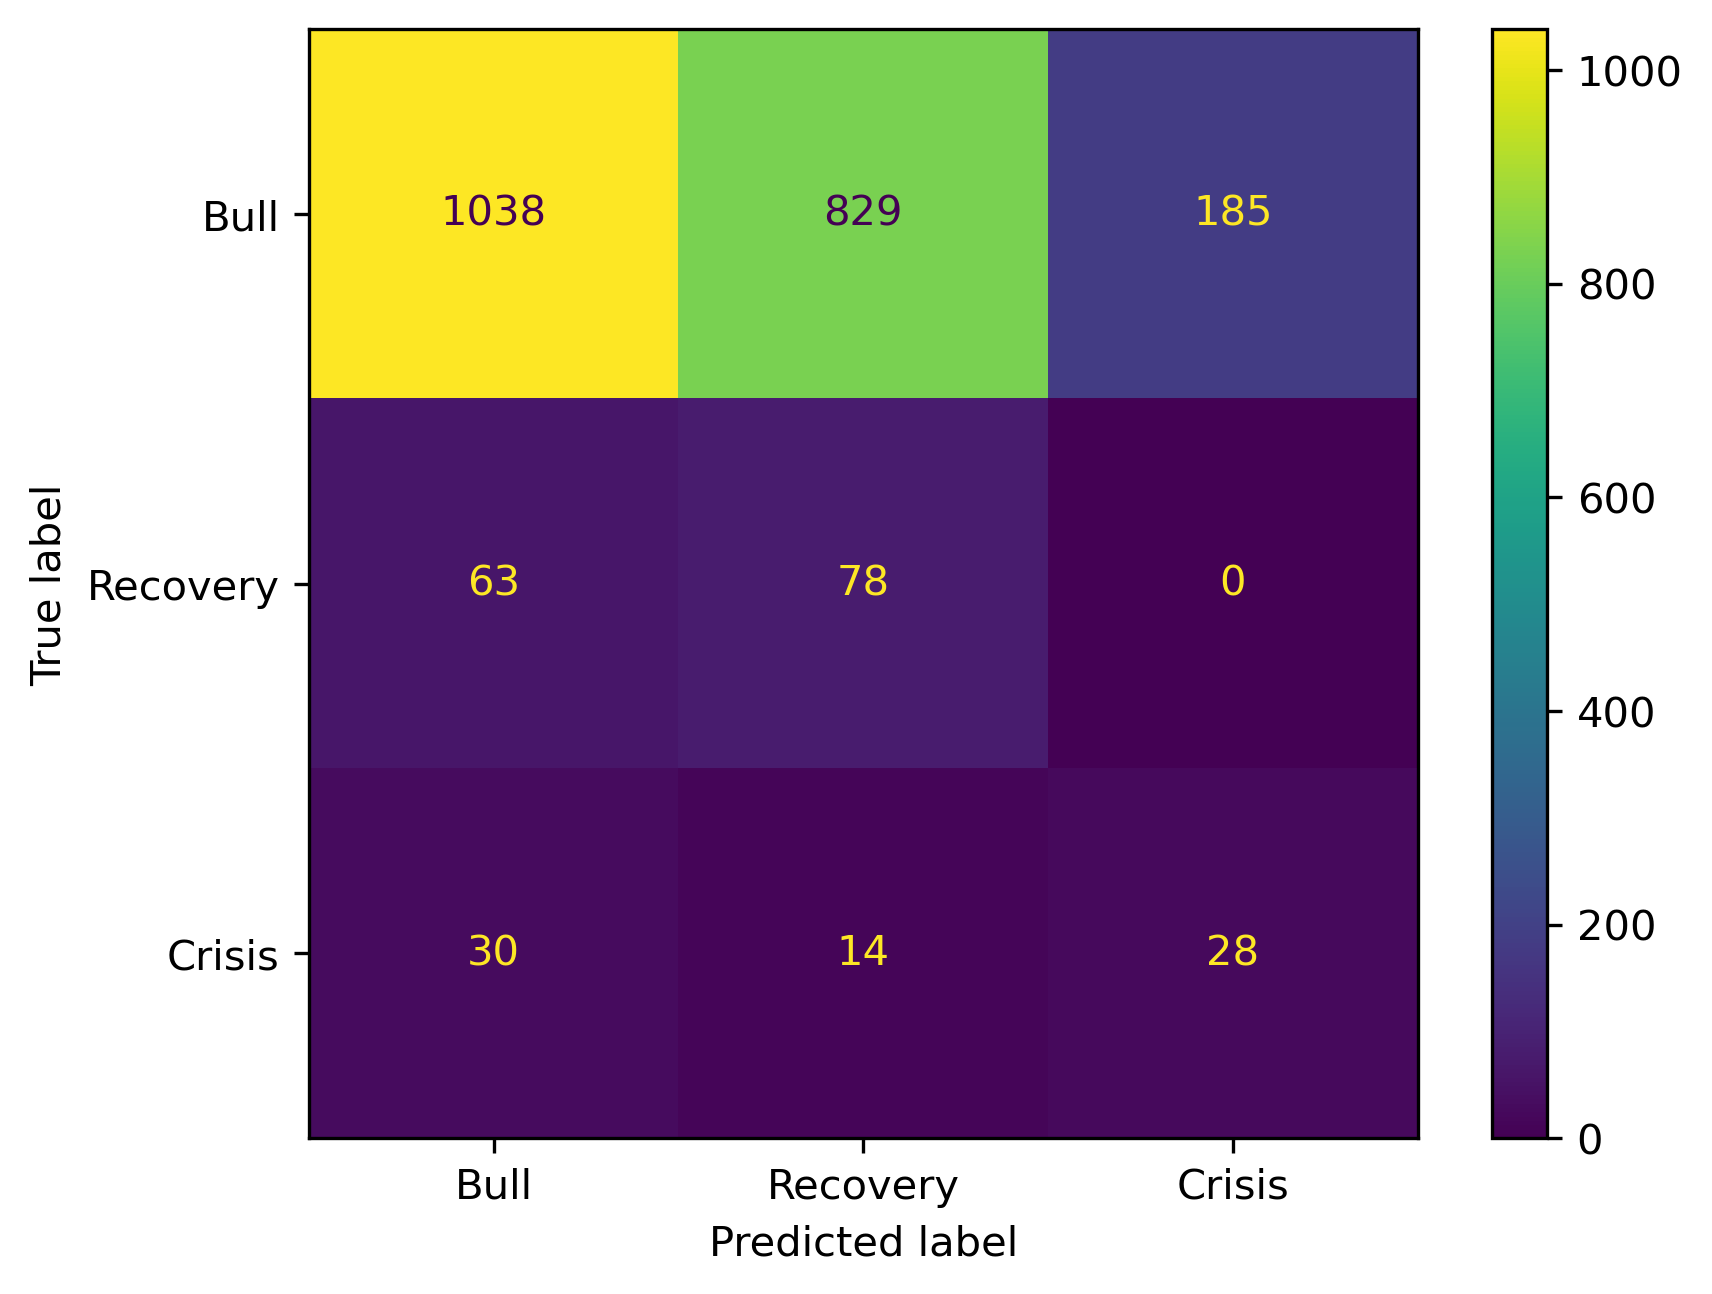
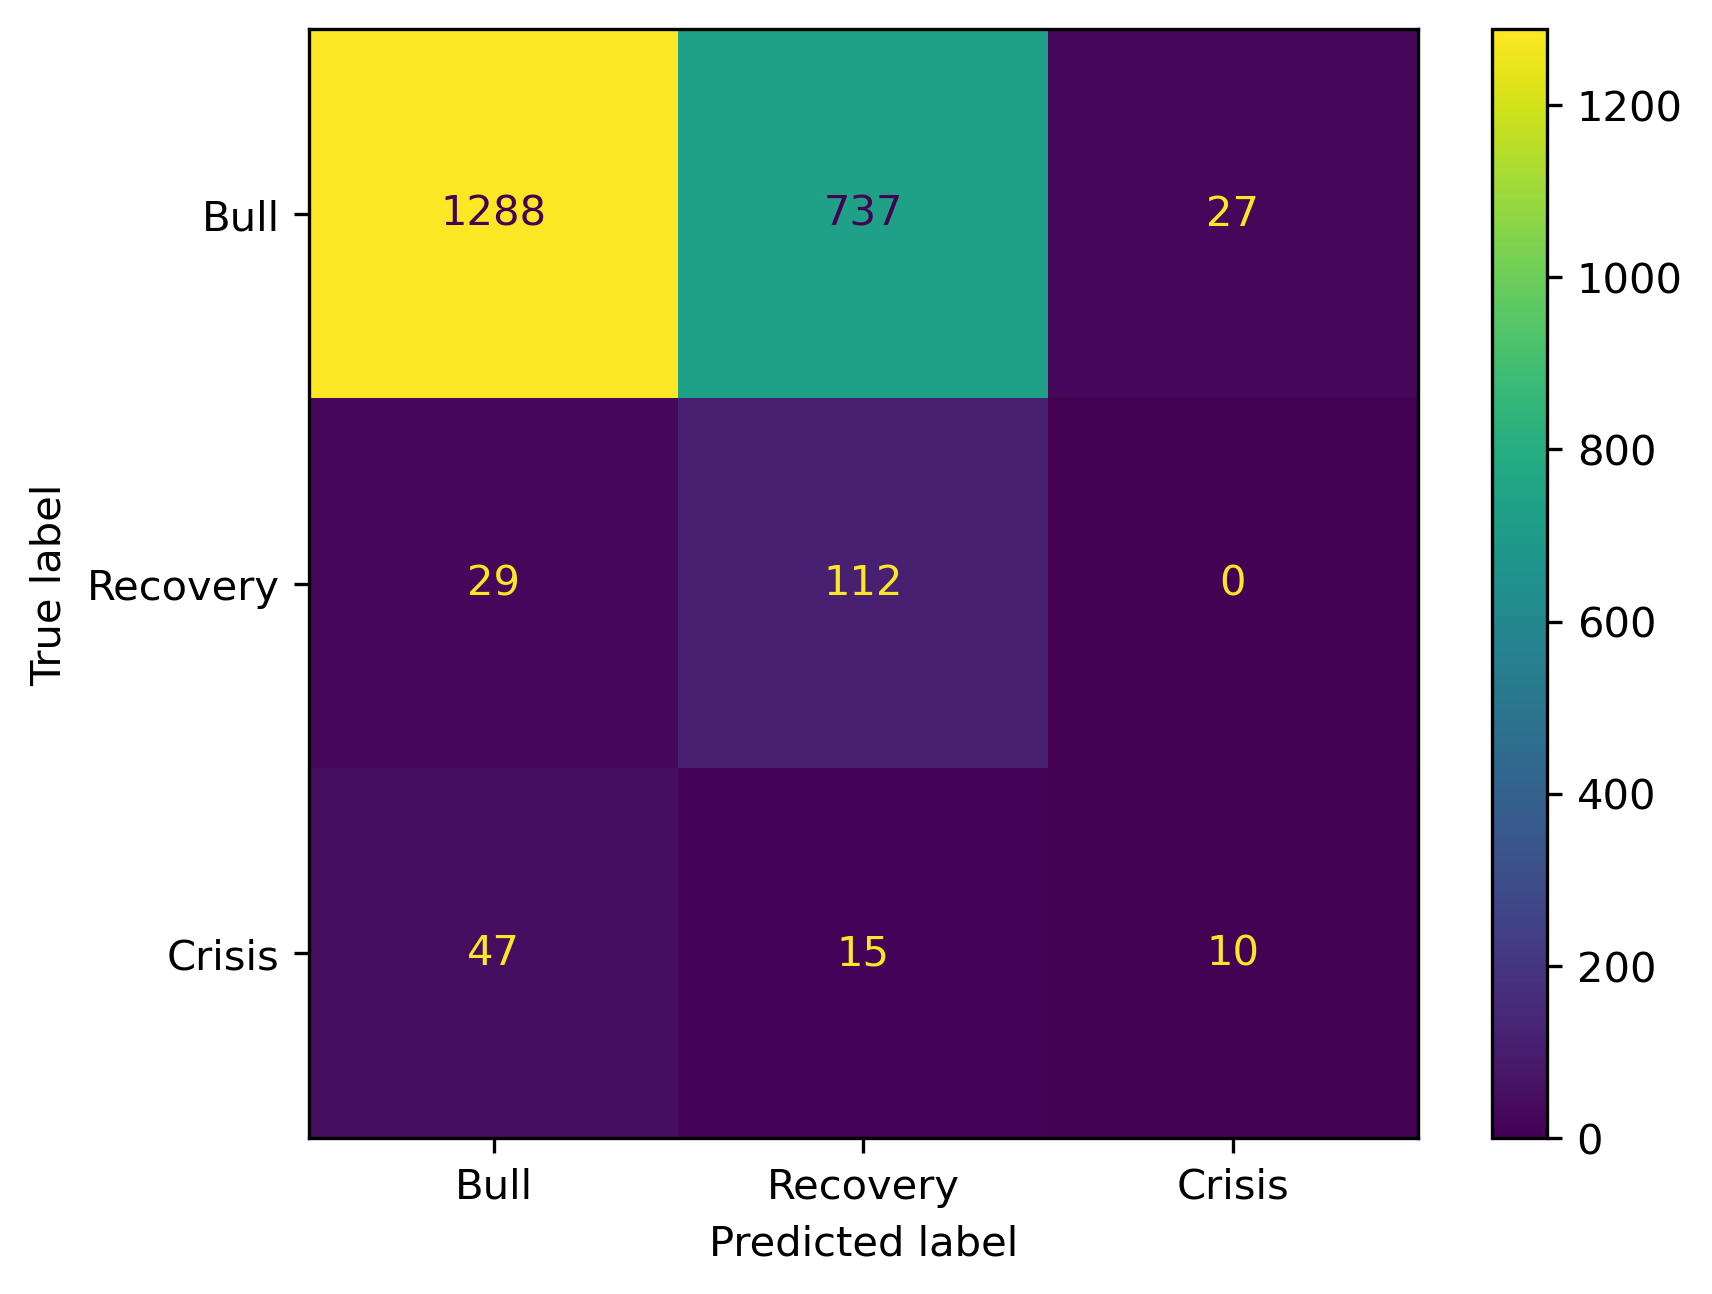
Update supervised learning code

diff --git a/config.py b/config.py
@@ -46,7 +46,7 @@ class DataConfig:
 @dataclass
 class SupervisedConfig:
     #Data parameters
-    penalty_type : str = "distance" #Type of penalty we will be appending. Leave empty if we dont want to apply penalty
+    penalty_type : str = "margin" #Type of penalty we will be appending. Leave empty if we dont want to apply penalty
     evaluation_metric : int = 2 #1 or 2 for m1 or m2
     horizon : int = 21
 
@@ -55,7 +55,7 @@ class SupervisedConfig:
     testing_method : str = "walk_forward" # "walk forward" vs "standard"
     folds : int = 3
 
-    lam : float = 20.0
+    lam : float = 10.0
     lam_values : List[float] = None
     margin : float = 0.5
 

diff --git a/supervised_learning.py b/supervised_learning.py
@@ -232,6 +232,12 @@ def print_results(preds_train, supervised_df, y_train, preds, y_test, cfg_sup):
     })
 
 def CV_for_lambda(current_regime, X, y, model_type):
+    n = len(X)
+    cutoff = n // 2
+    X = X.iloc[:cutoff]
+    y = y.iloc[:cutoff]
+    current_regime = current_regime.iloc[:cutoff]
+
     function_split = TimeSeriesSplit(n_splits= cfg_sup.folds)
     scores = defaultdict(list)
 
